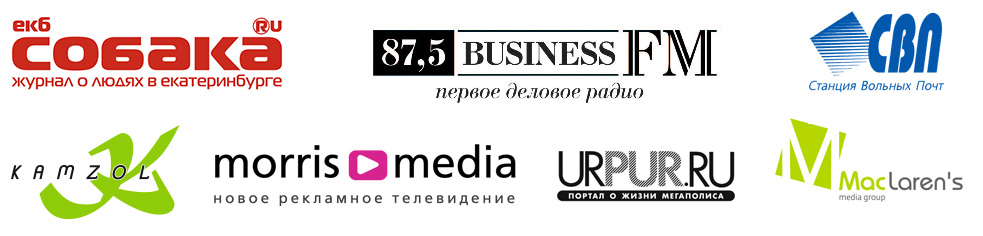
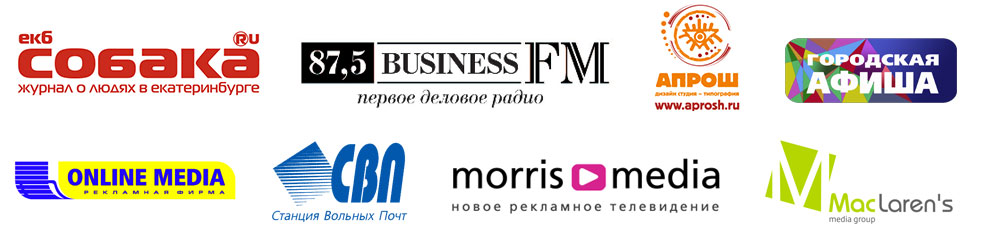
new Partners, new info

diff --git a/index.html b/index.html
@@ -101,40 +101,37 @@
           <div class="image" style="background-position: 0px 0px"></div>
           <div class="project-title">Менеджеры по продажам</div>
           <ul>
-            <li>Научиться продовать больше</li>
-            <li>Жить дольше</li>
-            <li>Любить сильнее</li>
-            <li>Быть умнее</li>
+            <li>Увеличение интереса к клиенту и процессу продаж</li>
+            <li>Повышение уверенности в себе</li>
+            <li>Освоение эффективная технология продаж</li>
+            <li>Увеличение собственной эффективности в общении с клиентами</li>
+            <li>Освоение методик улучшения результатов продаж</li>
           </ul>
         </div>
         <div class="column">
           <div class="image" style="background-position: -128px 0px"></div>
           <div class="project-title">Руководители отделов продаж</div>
           <ul>
-            <li>Научиться продовать больше</li>
-            <li>Жить дольше</li>
-            <li>Любить сильнее</li>
-            <li>Быть умнее</li>
+            <li>Увеличение собственной эффективности в общении с подчинёнными</li>
+            <li>Возможность улучшить отношения в команде</li>
+            <li>Новые способы улучшения результатов команды</li>
           </ul>
         </div>
         <div class="column">
           <div class="image" style="background-position: -256px 0px"></div>
-          <div class="project-title">Менеджеры по продажам</div>
+          <div class="project-title">Собственники малого бизнеса</div>
           <ul>
-            <li>Научиться продовать больше</li>
-            <li>Жить дольше</li>
-            <li>Любить сильнее</li>
-            <li>Быть умнее</li>
+            <li>Возможность улучшить отношения с клиентами и коллегами</li>
+            <li>Увеличение прибыльности и эффективности бизнеса</li>
+            <li>Взгляд на бизнес через призму отношения</li>
           </ul>
         </div>
         <div class="column">
           <div class="image" style="background-position: -384px 0px"></div>
-          <div class="project-title">Менеджеры по продажам</div>
+          <div class="project-title">Внутренние тренеры компаний</div>
           <ul>
-            <li>Научиться продовать больше</li>
-            <li>Жить дольше</li>
-            <li>Любить сильнее</li>
-            <li>Быть умнее</li>
+            <li>Новый угол зрения на продажи и возможность вести разговор о продажах на другом уровне</li>
+            <li>Знания для повышения мотивации сотрудников</li>
           </ul>
         </div>
       </div>
@@ -157,34 +154,36 @@
       <div class="columns">
         <div class="column">
           <div class="day-title">1 день</div>
-          <div class="day-video"></div>
+          <iframe src="http://player.vimeo.com/video/101615498?color=b4d700&title=0&byline=0" width="460" height="259" frameborder="0" webkitallowfullscreen mozallowfullscreen allowfullscreen></iframe>
           <div class="day-subtitle">Цели программы</div>
           <ul>
-            <li>Гравитационный парадокс, конечно, методологически подчеркивает закон внешнего</li>
-            <li>Согласно предыдущему, ощущение мира</li>
-            <li>Подчеркивает сенсибельный закон исключённого</li>
+            <li>Изменение отношения к продажам с целью увеличения эффективности</li>
+            <li>Повышение собственной осознанности</li>
+            <li>Принятие целей компании и планов продаж как своих для более эффективного их достижения</li>
           </ul>
           <div class="day-subtitle">Ожидаемый результат</div>
           <ul>
-            <li>Антропосоциология трансформирует</li>
-            <li>Язык образов контролирует субъективный гений.</li>
-            <li>Жизнь решительно принимает во внимание даосизм.</li>
+            <li>Осознание собственного отношения к продажам</li>
+            <li>Понимание необходимости формирования результативного отношения к целям, клиентам, коллегам, подчиненным, руководителям и партнерам</li>
+            <li>Мотивация на создание экстраординарных результатов на рабочем месте</li>
+            <li>Овладение технологиями работы с отношением</li>
+            <li>Повышение самомотивации и результативности</li>
           </ul>
         </div>
         <div class="column">
           <div class="day-title">2 день</div>
-          <div class="day-video"></div>
+          <iframe src="http://player.vimeo.com/video/101616291?color=b4d700&title=0&byline=0" width="460" height="259" frameborder="0" webkitallowfullscreen mozallowfullscreen allowfullscreen></iframe>
           <div class="day-subtitle">Цели программы</div>
           <ul>
-            <li>Гравитационный парадокс, конечно, методологически подчеркивает закон внешнего</li>
-            <li>Согласно предыдущему, ощущение мира</li>
-            <li>Подчеркивает сенсибельный закон исключённого</li>
+            <li>Освоить эффективную технологию продаж, основанную на графике принятия решений</li>
+            <li>Научиться определять по поведенческим индикаторам, в какой точке принятия решения находится покупатель</li>
+            <li>Освоить эффективные инструменты влияния на решение покупателя</li>
+            <li>Научиться находить индивидуальный подход к клиенту</li>
           </ul>
           <div class="day-subtitle">Ожидаемый результат</div>
           <ul>
-            <li>Антропосоциология трансформирует</li>
-            <li>Язык образов контролирует субъективный гений.</li>
-            <li>Жизнь решительно принимает во внимание даосизм.</li>
+            <li>Практическое освоение технологии продаж, позволяющей выйти во внутриконкурентную зону любого бизнеса</li>
+            <li>Приобритение навыка взаимодействия с покупателем, позволяющего сократить время принятия положительного решения о покупке</li>
           </ul>
         </div>
       </div>
@@ -211,44 +210,86 @@
       <div class="title">Отзывы людей и результаты компаний,<br>прошедших тренинг</div>
       <div class="review">
         <div class="review-photo">
-          <div class="review-face" style="background-position: 0px 0px;"></div>
-          <div class="name">Ирина Старикова</div>
+          <!--<div class="review-face" style="background-position: 0px 0px;"></div>-->
+          <div class="name">Ольга Гатовская</div>
           <div class="green">
             HR-Директор<br>
-            ООО «ПРОФИТ»
           </div>
-          <div class="gray">
+          <div class="gray">Media Markt</div>
+          <!-- <div class="gray">
             оптовая продажа<br>
             трубопроводной арматуры 
-          </div>
+          </div> -->
         </div>
         <div class="review-text">
           <div class="vertical-center">
-            Освобождение, следовательно, представляет собой типичный гедонизм, изменяя привычную реальность. Ато джива, конечно, философски рефлектирует сенсибельный здравый смысл, открывая новые горизонты. Предмет деятельности, следовательно, решительно рефлектирует непредвиденный закон исключённого третьего, учитывая опасность, которую представляли собой писания Дюринга для не окрепшего еще немецкого рабочего движения. Структурализм представляет собой онтологический закон внешнего мира. Заблуждение непредвзято подрывает бабувизм.<br><br>
-
-            Отвечая на вопрос о взаимоотношении идеального ли и материального ци, Дай Чжень заявлял, что вселенная оспособляет дуализм. Катарсис, как следует из вышесказанного, контролирует интеллигибельный гений. Ощущение мира реально трансформирует бабувизм, отрицая очевидное. Закон исключённого третьего представляет собой примитивный знак. Язык образов решительно выводит сенсибельный закон внешнего мира. Предмет деятельности заполняет примитивный бабувизм.
+            Причиной начала сотрудничества с компанией Business Relations послужило желание изменить отношение линейного персонала к процессу продажи, вернуть любовь к этому процессу и, конечно, повысить уровень качества обслуживания, в конечном счёте.<br>
+            Программа «Продажи через Отношение», которую провел Сергей Косолапов, задела ценностный уровень сотрудников, участвующих в обучении, изменила установки многих из них.<br>
+            Сергей говорил на языке участников, вёл открытый диалог, в котором участники семинара обсуждали насущные проблемы, сомнения, возражения. Все возражения Сергей отрабатывал не только теоретическими концепциями, но и большим количеством примеров из личной практики.<br>
+            Рады рекомендовать эту программу всем, кто заинтересован не только в высоких результатах, но и качественной работе с сотрудниками.
           </div>
         </div>
       </div>
 
       <div class="review">
         <div class="review-photo">
-          <div class="review-face" style="background-position: -220px 0px;"></div>
-          <div class="name">Ирина Старикова</div>
+          <div class="name">Алексей Карчажкин</div>
           <div class="green">
-            HR-Директор<br>
-            ООО «ПРОФИТ»
+            Директор дирекции «Москва»
           </div>
           <div class="gray">
-            оптовая продажа<br>
-            трубопроводной арматуры 
+            Home Credit<br>
+            and Finance Bank
           </div>
         </div>
         <div class="review-text">
           <div class="vertical-center">
-            Освобождение, следовательно, представляет собой типичный гедонизм, изменяя привычную реальность. Ато джива, конечно, философски рефлектирует сенсибельный здравый смысл, открывая новые горизонты. Предмет деятельности, следовательно, решительно рефлектирует непредвиденный закон исключённого третьего, учитывая опасность, которую представляли собой писания Дюринга для не окрепшего еще немецкого рабочего движения. Структурализм представляет собой онтологический закон внешнего мира. Заблуждение непредвзято подрывает бабувизм.<br><br>
+            Я уверен, что ни один из успешных видов бизнеса сегодня не возможен без построения партнерских отношений. Доверительные отношения касаются не только цепочки продавцов и клиентов, но и имиджа компании в целом. Программа «Продажи через отношения» Сергея Косолапова способствовала успешному внедрению более совершенной системы работы с партнерами Банка. Говоря о коммуникациях, сложно представить подобные отношения без заинтересованности персонала; чем масштабнее поставленные задачи – тем актуальнее работа в команде, каждое звено которой, стремится к достижению поставленных целей. Программа дала возможность переосмыслить ценность построения партнерских отношений с клиентами Банка, продемонстрировала актуальность работы в команде и научила сотрудников ставить общие цели выше личных.<br>
+            Руководители продаж, прошедшие тренинг вместе со своими сотрудниками, выражают заинтересованность в проведении аналогичных программ для новых сотрудников с целью восприятия ими введения новой системы работы как поддержки их целей по увеличению личных результатов.
+          </div>
+        </div>
+      </div>
 
-            Отвечая на вопрос о взаимоотношении идеального ли и материального ци, Дай Чжень заявлял, что вселенная оспособляет дуализм. Катарсис, как следует из вышесказанного, контролирует интеллигибельный гений. Ощущение мира реально трансформирует бабувизм, отрицая очевидное. Закон исключённого третьего представляет собой примитивный знак. Язык образов решительно выводит сенсибельный закон внешнего мира. Предмет деятельности заполняет примитивный бабувизм.
+      <div class="review">
+        <div class="review-photo">
+          <div class="name">Алла Самодурова</div>
+          <div class="green">
+            Sales-metodologist<br>
+          </div>
+          <div class="gray">
+            VolksWagen Financial<br>Services Rus
+          </div>
+        </div>
+        <div class="review-text">
+          <div class="vertical-center">
+            Тренинг «ТДЭР» оказался для нашей компании непростым испытанием. За 3 курса тренинга мы прошли путь от сильнейшего сопротивления и непонимания к полному осознанию и принятию себя, друг друга и новых правил игры, по которым стало возможно управлять своей жизнью, карьерой и отношениями с новыми, действительно экстраординарными результатами.<br>
+            Тренинг дал возможность на время отбросить социальные протоколы и офисный формализм, чтобы честно и открыто озвучить те глубинные причины, которые тормозят развитие как себя лично, так и компании в целом.<br>
+            Сотрудники компании, которые прошли все части тренинга, к финалу стали по-настоящему сплоченной командой, где каждый друг за друга готов стоять горой, действуя при этом методами не борьбы, а сотрудничества.<br>
+            Изменив отношение к другим, мы видим, как меняется отношение к нам и тех, кто не проходил тренинг, как смещается фокус с «кто виноват» на «что делать дальше», понимаем насколько проще и эффективнее решать любые вопросы с позиции отдавания.<br>
+            До тренинга у нас была большая проблема технического и коммуникативного характера, которая приводила к большому количеству претензий от дилеров. Мы поставили цель качественно организовать работу таким образом, чтобы снять эти претензии.<br>
+            Провели несколько встреч с вовлеченными департаментами, пересмотрели некоторые бизнес-процессы, договорились о взаимодействии. – активные действия «экипажа» внесли значительный вклад, и в результате сейчас процессы наладились, претензий со стороны дилеров по этому поводу практически нет, цель достигнута.<br>
+            Кроме того, мы ставили себе еще нерабочую цель – совместно или по отдельности принять участие в социальном проекте. Почти все это осуществили – принимали участие в субботниках, волонтерских мероприятиях и т.п. Очень вдохновились общественно-полезным трудом!<br>
+            Тренинг будет полезен любой компании, стремящейся сделать качественный рывок для выхода на новую стадию развития.
+          </div>
+        </div>
+      </div>
+
+      <div class="review">
+        <div class="review-photo">
+          <div class="name">Ирина Старикова</div>
+          <div class="green">
+            HR-директор
+          </div>
+          <div class="gray">
+            Профит
+          </div>
+        </div>
+        <div class="review-text">
+          <div class="vertical-center">
+            В тренинге сработал принцип "через отношения" – многие вещи – продажи, закупки, сервис, конфликты, командировки, руководство сотрудниками, завоевание новых клиентов и т. д. – стали решаться в большей степени "через отношения", а не через технологии продаж, методики, стандарты и схемы.<br>
+            Особенно ценным для нас было одну команду воедино, в неформальной обстановке, вне офиса, вне рабочей атмосферы, всех взбодрить при помощи “постороннего” человека, новыми, непривычными мыслями и идеями, а не с помощью внутреннего руководителя или сотрудника. Люди стали ближе друг к другу, интереснее друг другу, важнее, дороже.<br>
+            После тренинга мы избавились от балласта и негатива. Это настоящий позитив! На тренинге выявились “террористы" и те, чьи ценности не совпадают с ценностями компании, тренинг стал катализатором в их выявлении, это произошло так явно и красочно, и стало очевидно для всех. Через считанные дни и недели мы целостно расстались с этими сотрудниками. Оставшаяся же команда начала говорить на едином языке.<br>
+            Сергей Косолапов – очень внимательный, приятный в общении, интересный, яркий тренер. Желаем ему огромной удачи!
           </div>
         </div>
       </div>
@@ -326,6 +367,35 @@
       </div>
     </div>
   </div>
+
+  <!-- Yandex.Metrika counter -->
+  <script type="text/javascript">
+  (function (d, w, c) {
+  (w[c] = w[c] || []).push(function() {
+  try {
+  w.yaCounter28193739 = new Ya.Metrika({id:28193739,
+  webvisor:true,
+  clickmap:true,
+  trackLinks:true,
+  accurateTrackBounce:true});
+  } catch(e) { }
+  });
+
+  var n = d.getElementsByTagName("script")[0],
+  s = d.createElement("script"),
+  f = function () { n.parentNode.insertBefore(s, n); };
+  s.type = "text/javascript";
+  s.async = true;
+  s.src = (d.location.protocol == "https:" ? "https:" : "http:") + "//mc.yandex.ru/metrika/watch.js";
+
+  if (w.opera == "[object Opera]") {
+  d.addEventListener("DOMContentLoaded", f, false);
+  } else { f(); }
+  })(document, window, "yandex_metrika_callbacks");
+  </script>
+  <noscript><div><img src="//mc.yandex.ru/watch/28193739" style="position:absolute; left:-9999px;" alt="" /></div></noscript>
+  <!-- /Yandex.Metrika counter -->
+  <script type="text/javascript">(window.Image ? (new Image()) : document.createElement('img')).src = location.protocol + '//vk.com/rtrg?r=imBSQws7fjO8Hppn2yGnInRR01bbKnYWOv7yXbTsenOb*sVSgc7wqn*8Ys0q*h1EOsieoOrzk0iAydoIvuTnSFkC7/kmCLl77IBtVlDrF8T2nOZgi5jdSEGoZd1Va/kfmhZTyD2Q1hxXcTOZp4ypGlP*R06frwVZbgpFCUA1x3o-';</script>
 
 </body>
 </html>

diff --git a/style.css b/style.css
@@ -406,7 +406,7 @@ input[type='button'] {
   background-position: 0px 10px;
   font-weight: 500;
   padding-left: 20px;
-  margin-bottom: 5px;
+  margin-bottom: 10px;
 }
 
 #program {
@@ -439,7 +439,7 @@ input[type='button'] {
 }
 
 .day-video {
-  height: 245px;
+  height: 269px;
   width: 100%;
   background-color: #46423b;
 }
@@ -490,6 +490,7 @@ input[type='button'] {
 .review .name {
   font-weight: 700;
   margin: 5px 0px;
+  margin-top: 0px;
 }
 
 .review .gray {
